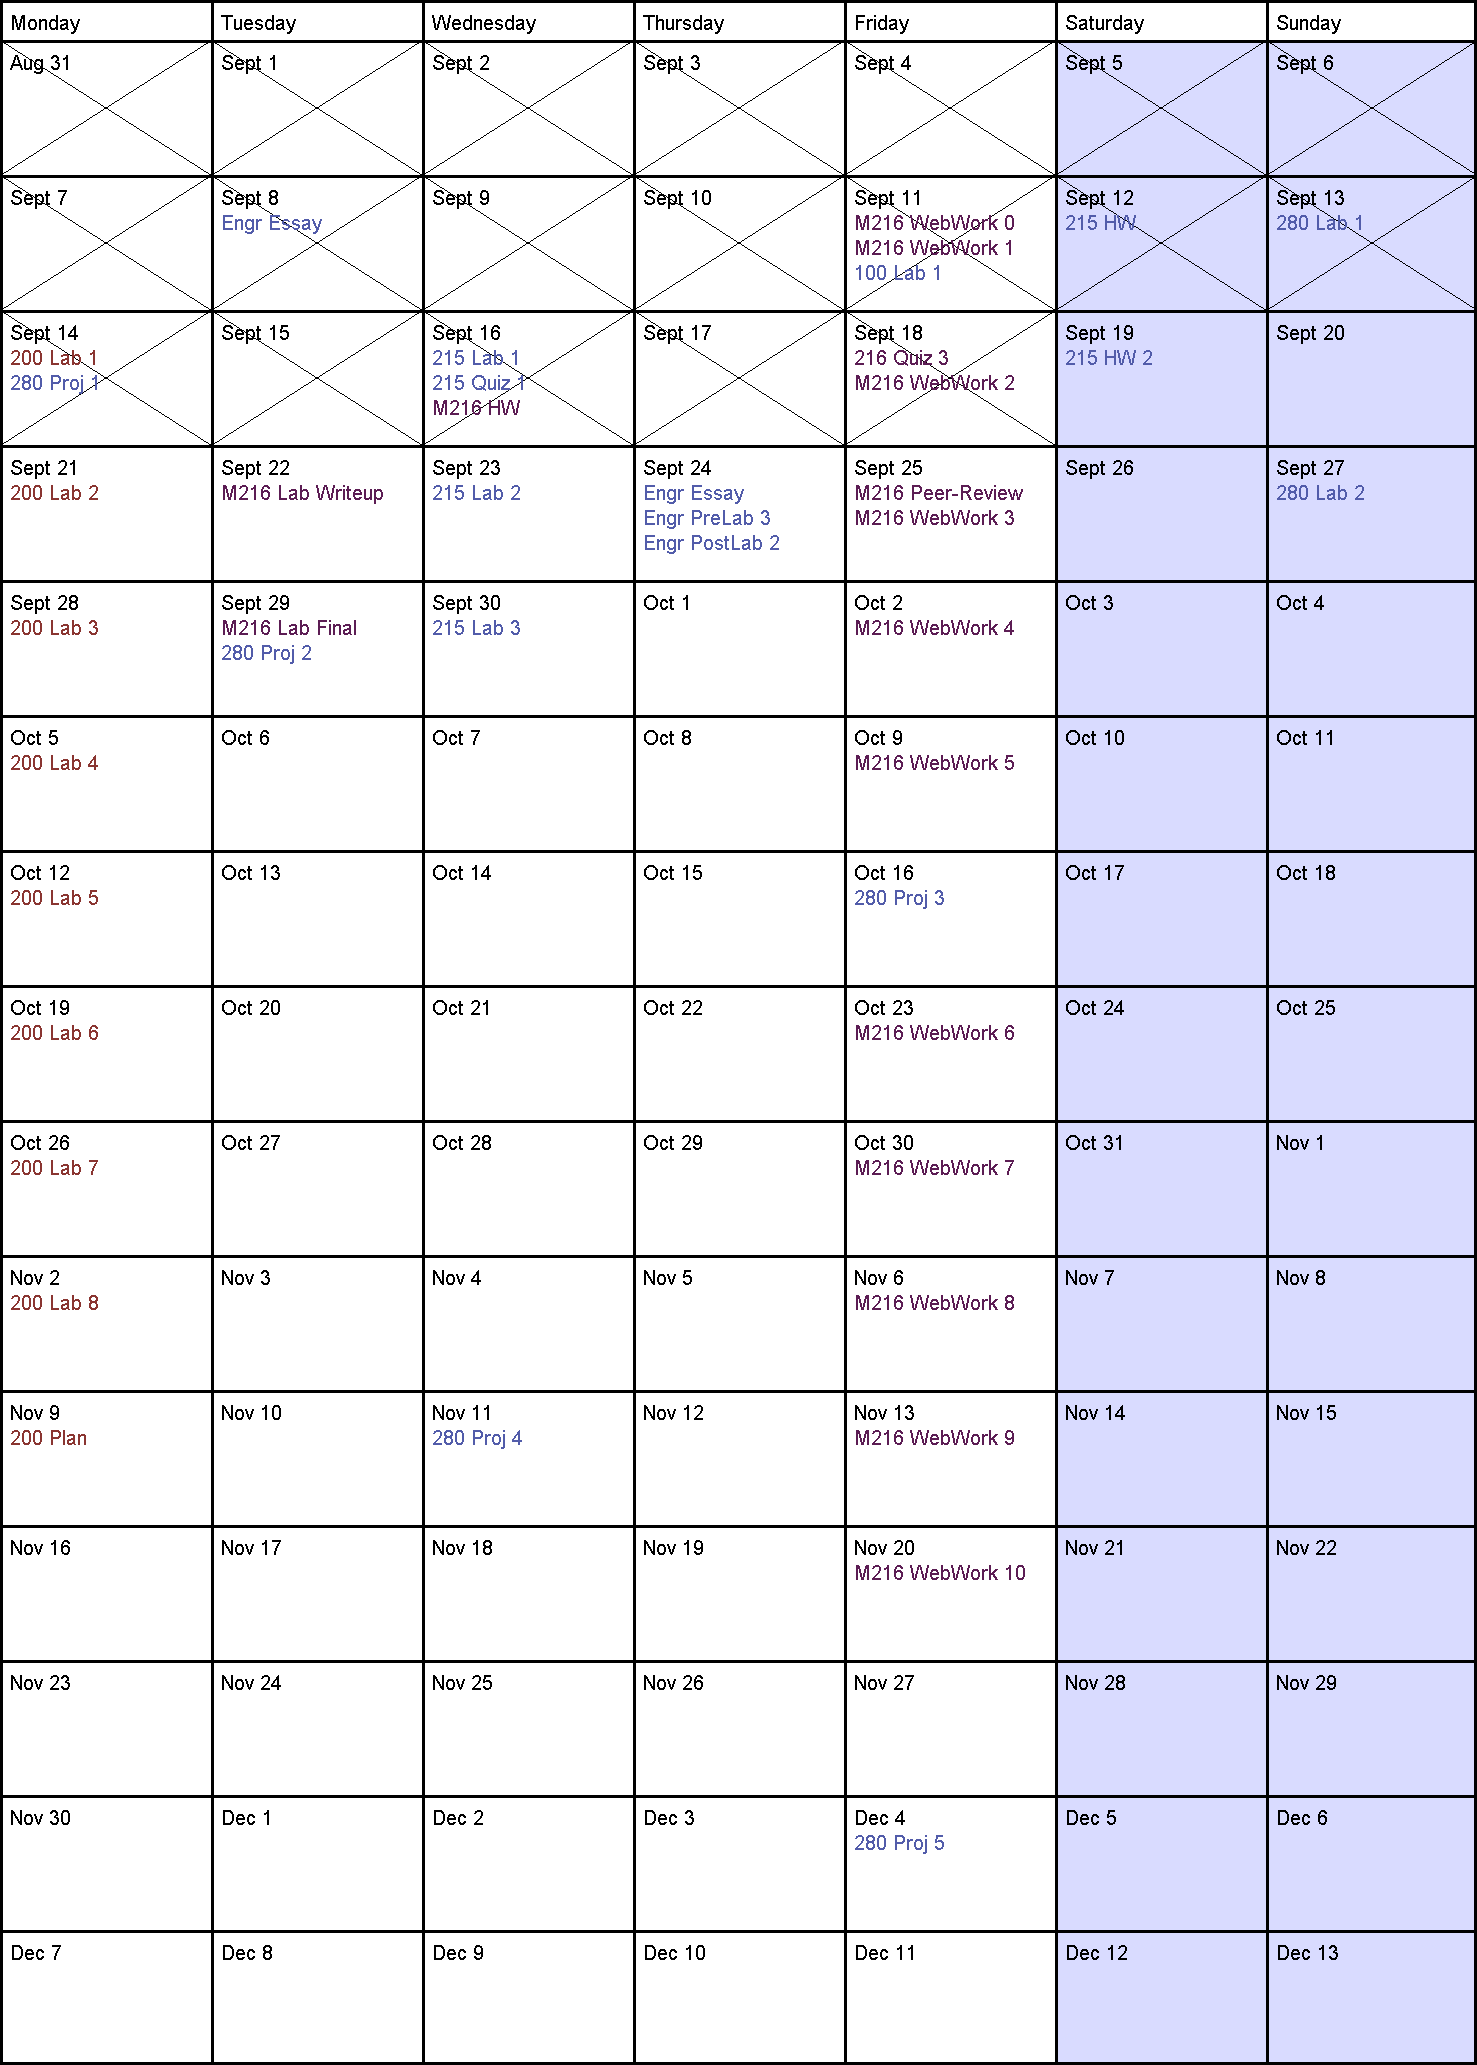
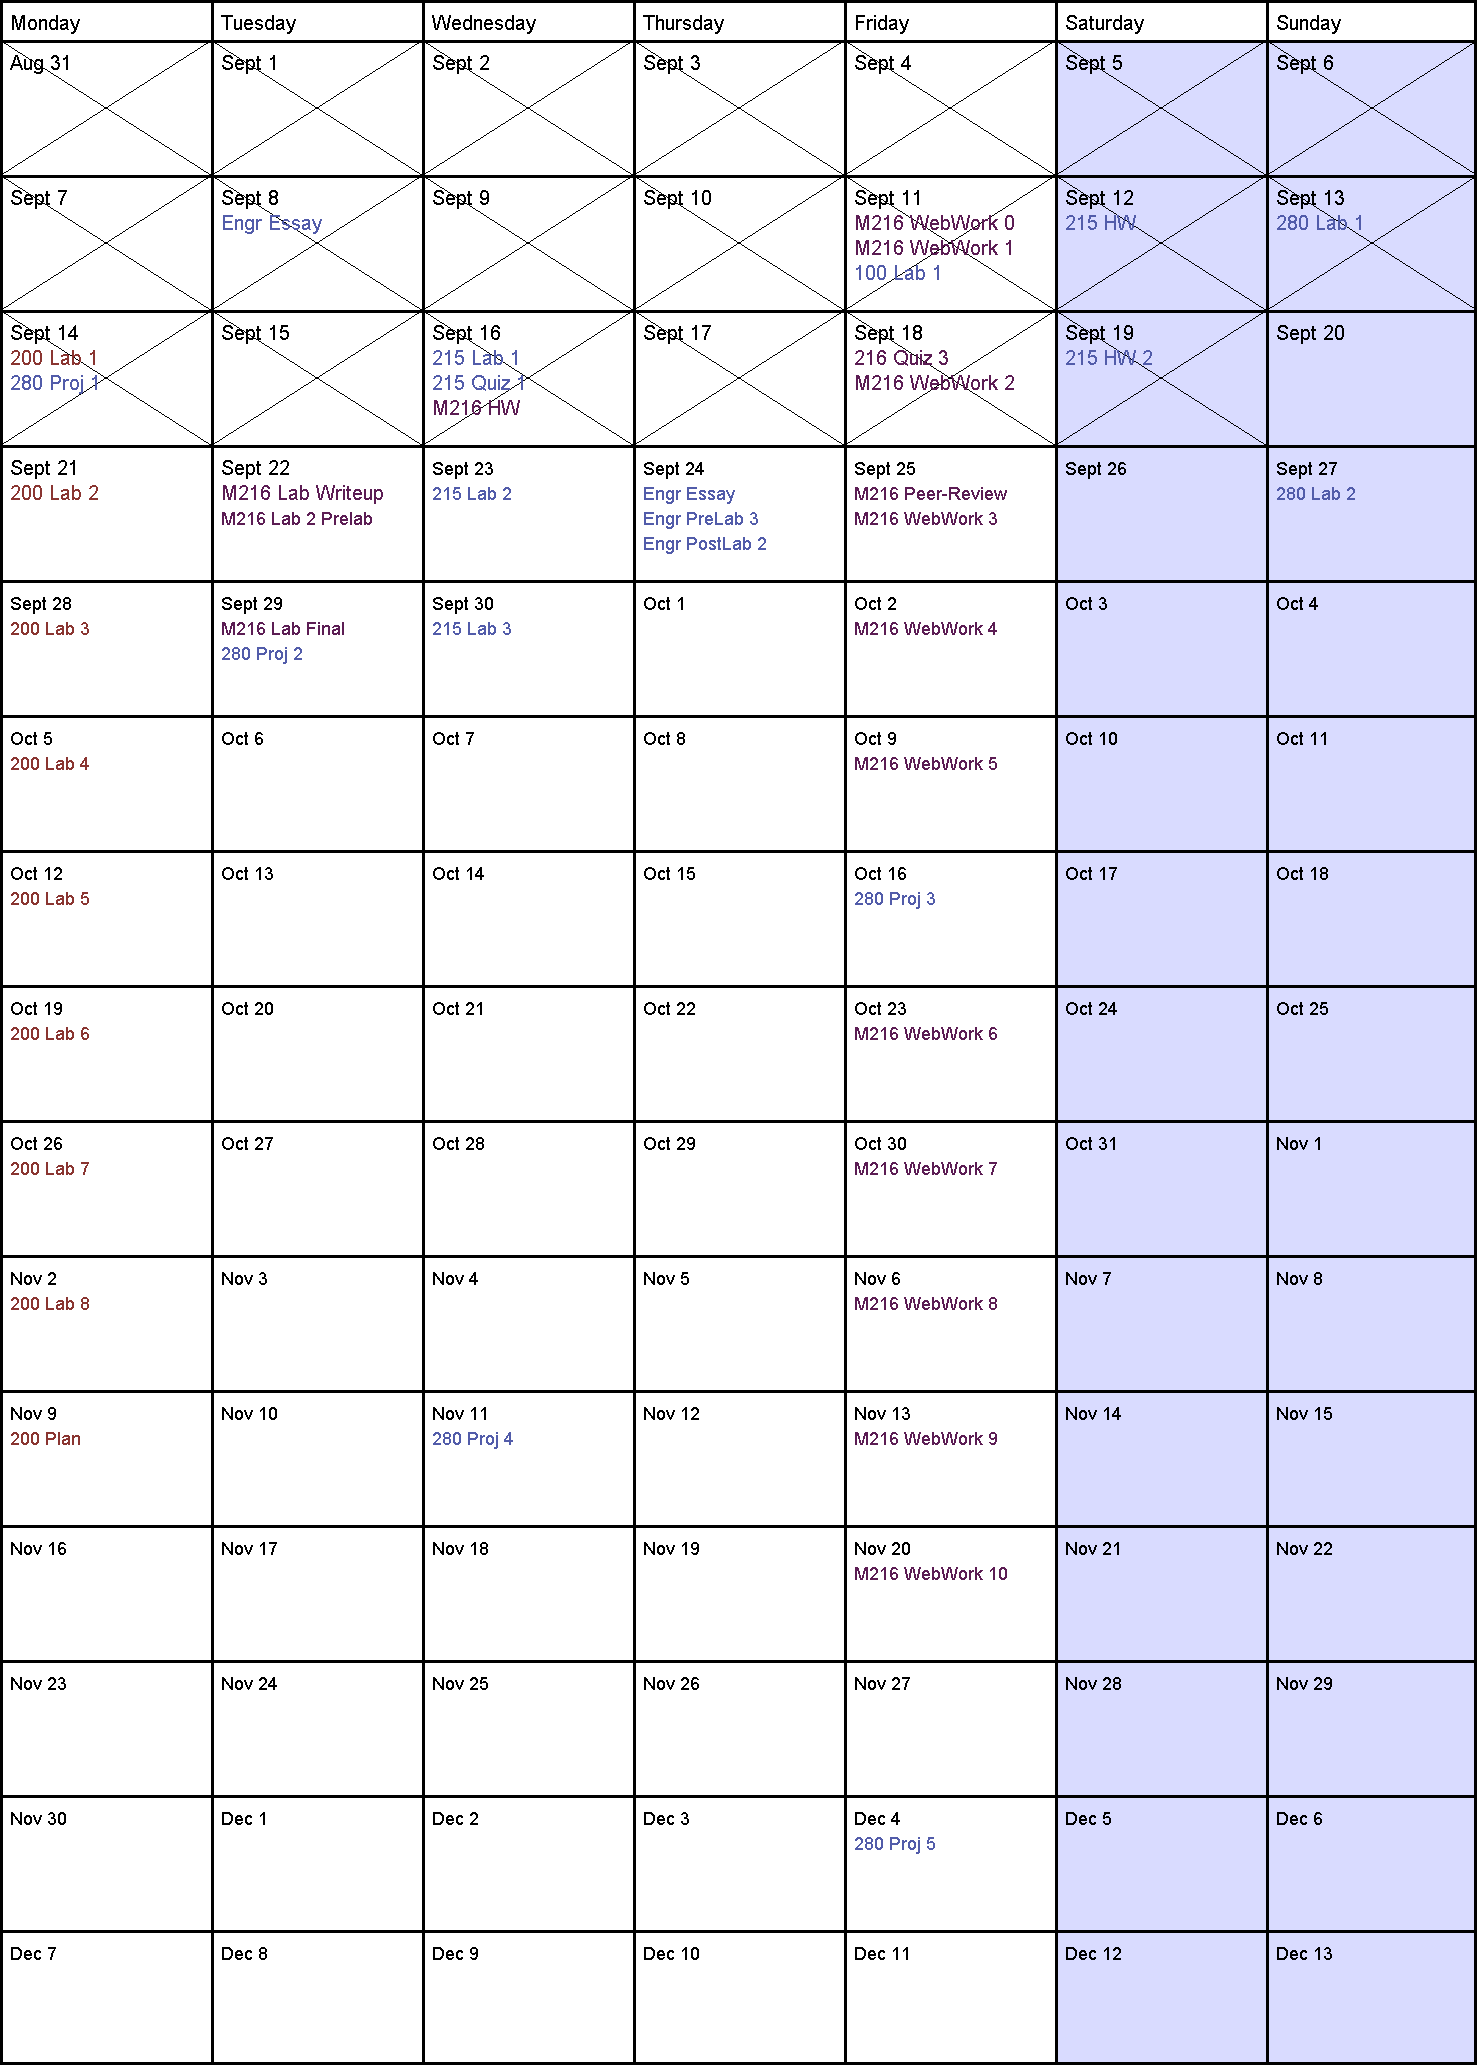
prelab

diff --git a/src/Calendar.java b/src/Calendar.java
@@ -99,6 +99,7 @@ public class Calendar extends Applet implements Runnable, KeyListener {
         addEvent("M216 WebWork 0", getDayofYear(11,9), 4);
         addEvent("M216 WebWork 1", getDayofYear(11,9), 4);
         addEvent("M216 Lab Writeup", getDayofYear(22,9), 4);
+        addEvent("M216 Lab 2 Prelab", getDayofYear(22,9), 4);
         addEvent("M216 Peer-Review", getDayofYear(25,9), 4);
         addEvent("M216 Lab Final", getDayofYear(29,9), 4);
         addEvent("M216 WebWork 2", getDayofYear(18,9), 4);
